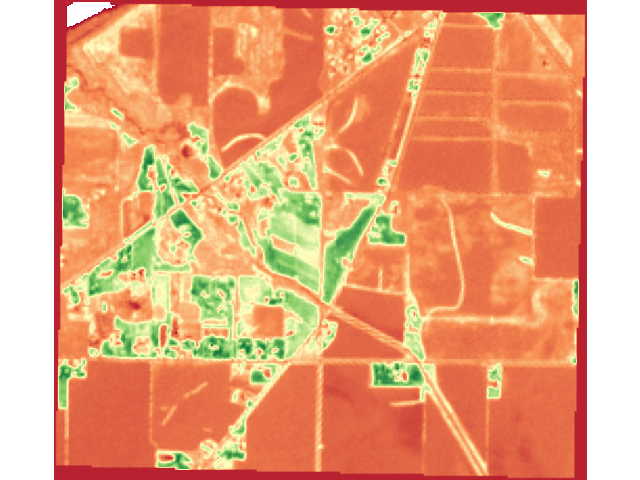
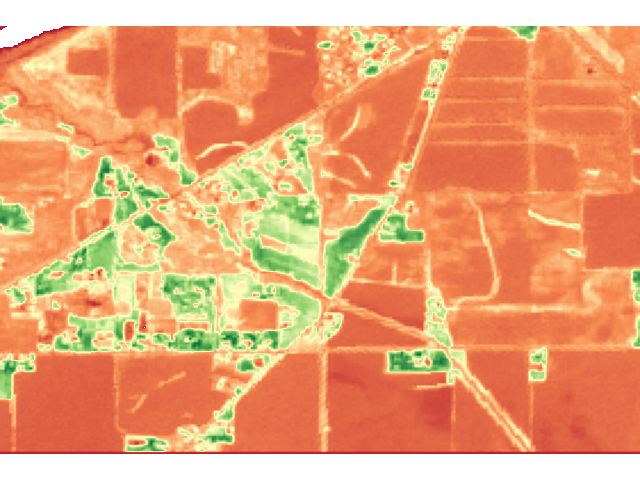
Added test version of class with processing that moves the jp2 into epsg 4326 before masking. Requires saving a very large geotiff as an intervening step. Future work involves cleaning up these temp files.
Validated that the same extents can be used for the pngs from two different dates and suitable alignment is achieved.

diff --git a/project_files/proj_class_exp.py b/project_files/proj_class_exp.py
@@ -1,0 +1,242 @@
+'''
+This class will be used for processing data once it has been downloaded. The process of
+querying the API for Sentinel data will be handled elsewhere.
+
+The class will accept the paths for the b2, b4, and b8 images from a Sentinel-2 collect and compute the NDVI
+and EVI for an area.
+
+MVP:
+Process single satellite pass into NDVI/EVI stats/info for each paddock individually
+
+Follow-on capes:
+Create KML with paddock data embedded.
+Put results in database.
+Save scaled down EVI and NDVI geotiffs
+'''
+
+import rasterio
+import rasterio.mask
+from rasterio.warp import calculate_default_transform, reproject, Resampling
+import geopandas as gpd
+import numpy as np
+from pprint import pprint as pp
+import os
+from datetime import datetime as dt
+from matplotlib import colors
+from matplotlib import pyplot as plt
+
+
+class SentinelPass:
+    def __init__(self, safe_path: str,
+                 gjson_path: str):
+        """Initializes class with the paths b4 and b8 jp2's and GeoJSON path"""
+        self.safe_path = safe_path
+        self._find_files(self.safe_path)
+        self._name_to_time(self.b2_fn)
+        self._all_mask = gpd.read_file(gjson_path)
+        self._pull_padded_box()
+        self._reproject_wgs84()
+        self._evi_square()
+        self._ndvi_square()
+
+    def _find_files(self, safe_folder: str):
+        """Accepts the base path for a set of download files and pulls the string for each desired band"""
+        for root, dirs, files in os.walk(f'../data/{safe_folder}'):
+            for file in files:
+                if file.endswith("B02_10m.jp2"):
+                    # print("Band 2 file " + os.path.join(root, file))
+                    self.b2_path = os.path.join(root, file)
+                    self.b2_fn = file # pulls filename rather than path for parsing datetime
+                elif file.endswith("B04_10m.jp2"):
+                    # print("Band 4 file " + os.path.join(root, file))
+                    self.b4_path = os.path.join(root, file)
+                elif file.endswith("B08_10m.jp2"):
+                    # print("Band 8 file " + os.path.join(root, file))
+                    self.b8_path = os.path.join(root, file)
+
+    def _pull_padded_box(self):
+        """Pulls padded box info from the geojson file and sets attribute to an epsg:32616 geometry"""
+        self.pad_geom = self._all_mask[
+            self._all_mask.name == 'Padded box']  # access the geometry that's a box padded around the farm
+        #self.pad_geom_m = pad_geom.to_crs('epsg:32616')  # convert this geometry to the frame for
+
+    # TODO: Implement delete of data file once bands have been pulled
+    def _reproject_wgs84(self):
+        """Reprojects jp2 into WGS84 crs and writes as GeoTIFF prior to masking file"""
+
+        for x in [self.b2_path, self.b4_path, self.b8_path]:
+            if 'b04' in x.lower():
+                band_fn = 'b4'
+            elif 'b02' in x.lower():
+                band_fn = 'b2'
+            elif 'b08' in x.lower():
+                band_fn = 'b8'
+
+            dst_crs = 'epsg:4326'
+
+            with rasterio.open(x, 'r') as src:
+                transform, width, height = calculate_default_transform(
+                    src.crs, dst_crs, src.width, src.height, *src.bounds)
+                kwargs = src.meta.copy()
+                kwargs.update({
+                    'crs': dst_crs,
+                    'transform': transform,
+                    'width': width,
+                    'height': height,
+                    'driver': 'GTiff'
+                })
+
+                with rasterio.open(f'./tmp_img/{band_fn}.tif', 'w', **kwargs) as dst:
+                    reproject(source=rasterio.band(src, 1),
+                              destination=rasterio.band(dst, 1),
+                              src_transform=src.transform,
+                              src_crs=src.crs,
+                              dst_transform=transform,
+                              dst_crs=dst_crs,
+                              resampling=Resampling.nearest)
+
+
+    def _ndvi_square(self):
+        """parses the b4 and b8 data down to a simple square around the farm"""
+        with rasterio.open('./tmp_img/b4.tif', 'r') as b4:
+            b4_img, b4_transform = rasterio.mask.mask(b4, self.pad_geom.geometry, crop=True)
+            b4_out_meta = b4.meta.copy()
+            b4_out_meta.update({'driver': 'GTiff',
+                                'height': b4_img.shape[1],
+                                'width': b4_img.shape[2],
+                                'transform': b4_transform})
+            self.red = b4_img.astype(float)
+
+        with rasterio.open('./tmp_img/b8.tif', 'r') as b8:
+            b8_img, b8_transform = rasterio.mask.mask(b8, self.pad_geom.geometry, crop=True)
+            self.nir = b8_img.astype(float)
+
+        np.seterr(divide='ignore', invalid='ignore')
+        self.ndvi = (self.nir - self.red) / (self.nir + self.red)
+        b4_out_meta.update({'dtype': rasterio.float64})
+
+        self.ndvi_gtf_name = f"./pics/ndvi_{self.sense_date.strftime('%Y%m%d')}_exp.tiff"
+        with rasterio.open(self.ndvi_gtf_name, 'w', **b4_out_meta) as dest:
+            dest.write(self.ndvi.astype(rasterio.float64))
+
+    def _evi_square(self):
+        """parses the b4, b8, and b2 into an EVI array around the farm"""
+        with rasterio.open('./tmp_img/b4.tif', 'r') as b4:
+            b4_img, b4_transform = rasterio.mask.mask(b4, self.pad_geom.geometry, crop=True)
+            b4_out_meta = b4.meta.copy()
+            b4_out_meta.update({'driver': 'GTiff',
+                                'height': b4_img.shape[1],
+                                'width': b4_img.shape[2],
+                                'transform': b4_transform})
+            self.red = b4_img.astype(float) / 10000
+
+        with rasterio.open('./tmp_img/b8.tif', 'r') as b8:
+            b8_img, b8_transform = rasterio.mask.mask(b8, self.pad_geom.geometry, crop=True)
+            self.nir = b8_img.astype(float) / 10000
+
+        with rasterio.open('./tmp_img/b2.tif', 'r') as b2:
+            b2_img, b2_transform = rasterio.mask.mask(b2, self.pad_geom.geometry, crop=True)
+            self.blue = b2_img.astype(float) / 10000
+
+        self.evi = 2.5 * (self.nir - self.red) / ((self.nir + 6.0 * self.red - 7.5 * self.blue) + 1.0)
+        b4_out_meta.update({'dtype': rasterio.float64})
+
+        self.evi_gtf_name = f"./pics/evi_{self.sense_date.strftime('%Y%m%d')}_exp.tiff"
+        with rasterio.open(self.evi_gtf_name, 'w', **b4_out_meta) as dest:
+            dest.write(self.evi.astype(rasterio.float64))
+
+    def _paddock_mask(self, paddock_name: str):
+        """Accepts paddock name and returns the geometry associated with it"""
+        all_geom = gpd.read_file('farm_simple.geojson')
+        return all_geom[all_geom.name == paddock_name]
+
+
+    def _name_to_time(self, b2_name: str):
+        split_name = b2_name.split('_')
+        self.sense_date = dt.strptime(split_name[1], '%Y%m%dT%H%M%S')
+
+    # TODO: Refactor to account for new naming convention for files
+    def paddock_stats(self, paddock_name: str, index: str = 'ndvi') -> dict:
+        """accepts geodataframe for specific paddock and index ('ndvi' or 'evi') and computes statistics"""
+        paddock_mask = self._paddock_mask(paddock_name)  # pull data from geojson and convert
+
+        if index.lower() == 'evi':
+            index_path = './pics/evi_masked.tiff'
+        elif index.lower() == 'ndvi':
+            index_path = './pics/ndvi_masked.tiff'
+        else:
+            print('Invalid index chosen. Chose either "evi" or "ndvi"')
+            return {'result': 'Invalid index parameter provided'}
+
+        with rasterio.open(index_path, 'r') as src:
+            paddock_data, _ = rasterio.mask.mask(src, paddock_mask.geometry, crop=True)
+            pdk_data_dict = {'index': index,
+                             paddock_name: {
+                                 'max': np.nanmax(paddock_data),
+                                 'min': np.nanmin(paddock_data),
+                                 'mean': np.nanmean(paddock_data),
+                                 'median': np.nanmedian(paddock_data),
+                                 'std': np.nanstd(paddock_data),
+                                 'var': np.nanvar(paddock_data),
+                                 'pixels': np.count_nonzero(paddock_data)
+                             }}
+        return pdk_data_dict
+
+    def available_paddocks(self):
+        """Processes the GeoJSON path in use by the instance and returns a list of names"""
+        return list(self._all_mask['name'])
+
+    def geotiff_to_png(self, index: str):
+        """This method will accept the index (ndvi/evi) and process the geotiff image to produce a masked and transparent
+        image in png format."""
+        if index.lower() == 'ndvi':
+            with rasterio.open(self.ndvi_gtf_name, 'r') as src:
+                img_arr = src.read(1)
+        elif index.lower() == 'evi':
+            with rasterio.open(self.evi_gtf_name, 'r') as src:
+                img_arr = src.read(1)
+        else:
+            return "You have not selected a valid index."
+
+        img_arr_prep = np.nan_to_num(img_arr, nan=-1.0)
+        img_norm = (img_arr_prep + 1.0) / 2.0  # normalizes array from range -1,1 to range 0,1
+
+
+        # custom colordict for transparent values of a segmented 3 color line
+        cdict = {'red':     ((0.0, 0.65, 0.65),
+                            (0.25, 0.97, 0.97),
+                            (0.5, 1.0, 1.0),
+                            (0.75, 0.53, 0.53),
+                            (1.0, 0.0, 0.0)),
+                 'green':   ((0.0, 0.0, 0.0),
+                            (0.25, 0.55, 0.55),
+                            (0.5, 1.0, 1.0),
+                            (0.75, 0.80, 0.80),
+                            (1.0, 0.41, 0.41)),
+                 'blue':    ((0.0, 0.15, 0.15),
+                            (0.25, 0.32, 0.32),
+                            (0.5, 0.75, 0.75),
+                            (0.75, 0.4, 0.4),
+                            (1.0, 0.22, 0.22)),
+                 'alpha':   ((0.0, 0.0, 0.0),
+                            (0.02, 0.0, 1.0),
+                            (0.03, 1.0, 1.0),
+                            (1.0, 1.0, 1.0))}
+        mymap = colors.LinearSegmentedColormap('mymap', cdict)
+
+        # prepping template to save png with transparency and no border info
+        fig = plt.figure()
+        ax = plt.Axes(fig, [0., 0., 1., 1.])
+        ax.set_axis_off()
+        ax.margins(0)
+        fig.add_axes(ax)
+
+        ax.imshow(img_norm, cmap=mymap)
+        plt.savefig(f"./pics/{index.lower()}_{self.sense_date.strftime('%Y%m%d')}.png", transparent=True)
+        plt.close()
+
+    # TODO: connect to database
+
+    # TODO: add NDVI data to database
+
+    # TODO: write PNG into KML and return

diff --git a/project_files/test_runs.py b/project_files/test_runs.py
@@ -1,9 +1,9 @@
-from proj_class import SentinelPass
+from proj_class_exp import SentinelPass
 import numpy as np
 from pprint import pprint as pp
 import os
 
 if __name__ == '__main__':
-    first_test = SentinelPass('S2A_MSIL2A_20200418T164901_N0214_R026_T16TCM_20200418T210937.SAFE',
+    first_test = SentinelPass('S2B_MSIL2A_20200420T163829_N0214_R126_T16TCM_20200420T210016.SAFE',
                               './farm_simple.geojson')
     first_test.geotiff_to_png('ndvi')
